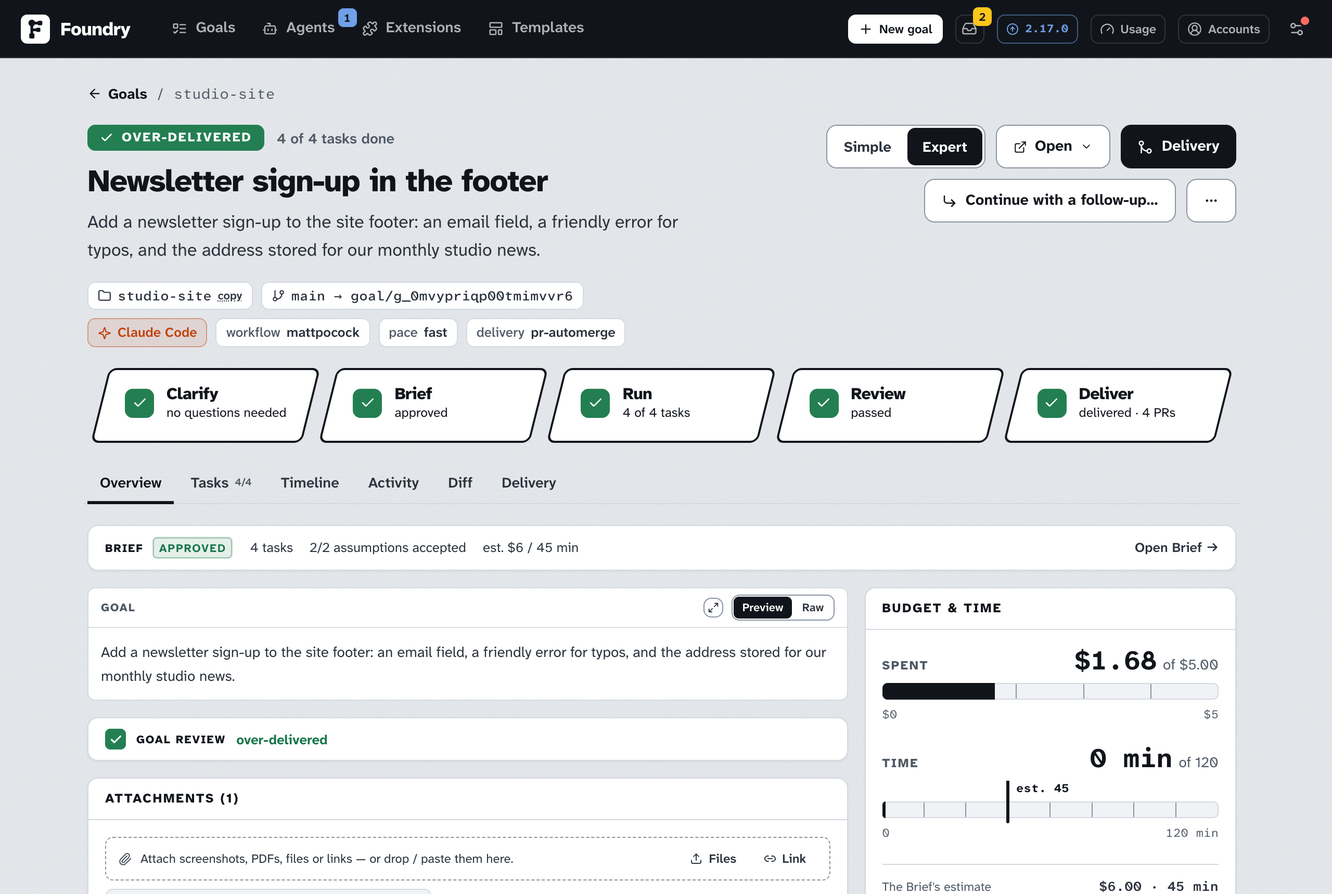
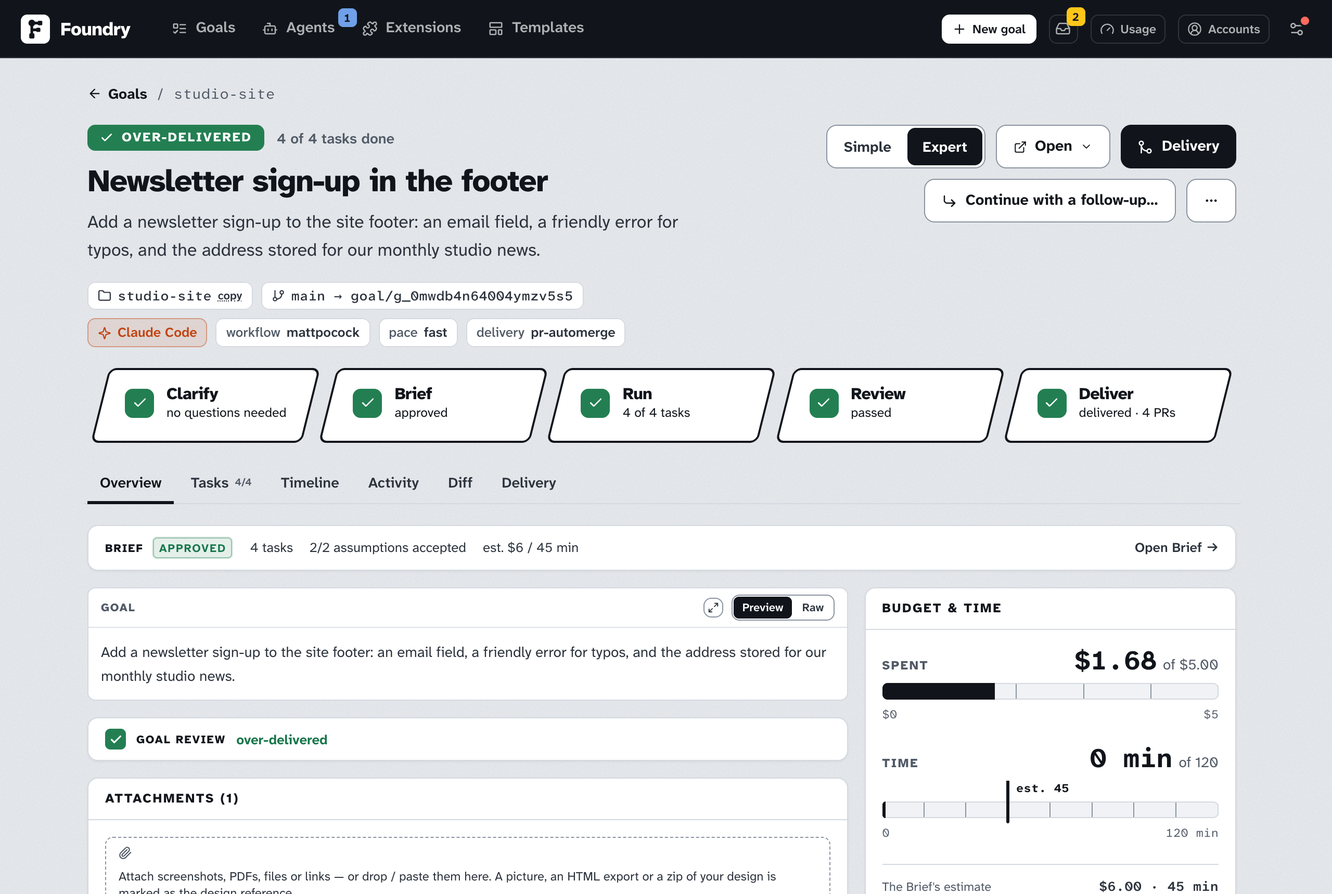
docs: Bringing your own design, ADR-0092 and the glossary's Design Reference
A guide page in English and 中文 on handing a goal the screens the person designed: attach files, never a link; the Design reference chip; what the Brief and the workers do with it; the Design pack per goal. The attachments, style cards and Design skills passages point to it, the guide's reading order and index list it, CONTEXT.md gains Design Reference, and the New goal form and goal overview screenshots are re-captured for the new hint.

Changed region(s): [[0.0938, 0.9552, 0.5938, 1.0], [0.625, 0.0, 0.8125, 0.0616], [0.3125, 0.3081, 0.4062, 0.339]]

diff --git a/packages/server/src/guide.ts b/packages/server/src/guide.ts
@@ -2,7 +2,7 @@ import { existsSync, readFileSync, readdirSync } from 'node:fs';
 import { join } from 'node:path';
 
 /** The user guide, in reading order. Pages not listed here are appended alphabetically. */
-export const GUIDE_ORDER = ['index', 'your-first-goal', 'answering-the-interview', 'approving-the-brief', 'while-it-runs', 'when-foundry-needs-you', 'getting-the-result', 'figures', 'diagrams', 'decks', 'learnings', 'memory', 'hyperframes', 'motion-studio', 'editor', 'schedules', 'settings', 'themes', 'costs-and-usage', 'moving-to-a-new-computer', 'ports', 'faq'];
+export const GUIDE_ORDER = ['index', 'your-first-goal', 'answering-the-interview', 'approving-the-brief', 'bringing-your-own-design', 'while-it-runs', 'when-foundry-needs-you', 'getting-the-result', 'figures', 'diagrams', 'decks', 'learnings', 'memory', 'hyperframes', 'motion-studio', 'editor', 'schedules', 'settings', 'themes', 'costs-and-usage', 'moving-to-a-new-computer', 'ports', 'faq'];
 
 /** The first page is README.md so GitHub shows it when docs/guide/ is opened; the app calls it "index". */
 export const guideFile = (slug: string) => (slug === 'index' ? 'README' : slug);

diff --git a/docs/guide/settings.zh.md b/docs/guide/settings.zh.md
@@ -199,7 +199,7 @@ skill 是所选编码智能体可以遵循的打包指令。在这里选择 Foun
 - **Setting sources**（仅 Claude）：会话加载哪些 Claude Code 设置。留空。
 - **autoskills per goal**（开）：你批准 Brief 后，把匹配你项目技术栈（React、Tailwind……）的 skill 加到 goal 的文件夹里。它们不会进入你的提交。
 - **MCP tools that run or change things**（关）：让会话使用已允许的 MCP server 里会运行或改动东西的工具。对 REA 来说：启动目标程序、挂调试器、操作连接的 Android 设备。关着时会话只能做静态分析。
-- **Design skills**、**Image skills**、**Video skills**（以及打开 [Figure goals、Diagram goals 或 Deck goals](#beta) 后的 **Figure skills**、**Diagram skills** 或 **Deck skills**）：每类选一个包；只有这个包会交给前端、图片、视频、figure、diagram 或 deck 任务。Figure 包的两个技能随 Foundry 附带，安装就是复制、不用下载，而且一个 goal 可以在 New goal 表单上选另一种已安装的风格；见 [Figure goal](./figures.zh.md)。Diagram 包的技能从它的仓库克隆一个固定版本；见 [Diagram goal](./diagrams.zh.md)。Deck 包的技能克隆一个固定发布版，并在数据文件夹下用 uv 得到一个专属的 Python 环境；见 [Deck goal](./decks.zh.md)。每个包显示 **installed** 或 **N missing**，并带一个 **Install** 按钮。选包会立即保存。图片包只有在 [Tools & keys](#tools--keys) 里有 key 时，才能生成真正的图片。已安装的技能缺少它需要的 key 时，它的卡片上会显示 **⚠ key missing**，写明是哪个 key、缺了它会少什么；点它就会跳到 **Tools & keys**。
+- **Design skills**、**Image skills**、**Video skills**（以及打开 [Figure goals、Diagram goals 或 Deck goals](#beta) 后的 **Figure skills**、**Diagram skills** 或 **Deck skills**）：每类选一个包；只有这个包会交给前端、图片、视频、figure、diagram 或 deck 任务。Figure 包的两个技能随 Foundry 附带，安装就是复制、不用下载，而且一个 goal 可以在 New goal 表单上选另一种已安装的风格；见 [Figure goal](./figures.zh.md)。Diagram 包的技能从它的仓库克隆一个固定版本；见 [Diagram goal](./diagrams.zh.md)。Deck 包的技能克隆一个固定发布版，并在数据文件夹下用 uv 得到一个专属的 Python 环境；见 [Deck goal](./decks.zh.md)。每个包显示 **installed** 或 **N missing**，并带一个 **Install** 按钮。选包会立即保存。代码 goal 可以在 New goal 表单上（**Design skills**）或用 `--design-pack` 另选一个设计包；附了设计参考时，包只补设计稿没定的部分（见[带上你自己的设计稿](./bringing-your-own-design.zh.md)）。图片包只有在 [Tools & keys](#tools--keys) 里有 key 时，才能生成真正的图片。已安装的技能缺少它需要的 key 时，它的卡片上会显示 **⚠ key missing**，写明是哪个 key、缺了它会少什么；点它就会跳到 **Tools & keys**。
 - **Memory**——记住每个文件夹的 goal 做过什么、学到什么的 Hindsight 服务器——不在这里设置，而是在 Extensions 页面的 MCP servers 标签页（这张卡片上有链接过去）；每个文件夹的开关在 Learnings 页面上。见 [Memory](./memory.zh.md)。
 
 顶栏上的 **Extensions** 页面放着 skill、MCP server 和原生 Codex 插件。页面上的分组一开始都是收起的，所以整页是一张短清单：点分组名称就能展开。搜索或筛选时，有匹配结果的分组会自动展开；收起的分组如果里面有来源可以更新，标题旁会注明。下述技能更新状态及整包卸载细节适用于 Claude。Codex 的 **Skills** 清单显示原生及共享技能，以及 Codex 已启用的每个插件里的技能，按插件分组（这些由 Codex 自己更新和移除，行上会说明怎么做）。在 Foundry 之外安装的技能，下次打开页面就会出现。插件包本身另在 **Plugins** 显示。以插件形式提供的设计或图像技能包，只要 Codex 装了那个插件就算已安装。共享技能（在 `~/.agents/skills`，其他智能体也会读取）可以在这里卸载，包括手动安装的；卸载后进入回收站，恢复时回到原来的文件夹。如果 Claude Code 也通过它自己技能目录里的链接使用某个共享技能，就不能在这里卸载：请先在 **Claude Code** 那边卸载，免得 Claude Code 留下一个失效的链接。每个技能都有一个状态：**outdated**（有新版本 —— 按 **Update**）、**unreleased**（插件作者在上游改了它，但没有提高版本号，所以 CLI 暂时没有新东西可装）、**modified**（你的副本被改过）或 **up to date**（只有 README 或 changelog 不同不算）。像 ffmpeg 这样的命令行工具，只要找得到它的命令就算已安装。插件的技能只能一起删除，用 **Uninstall plugin**。你手动安装的副本，如果 Foundry 自己能安装这个技能，就会出现 **Adopt**：用一个由 Foundry 负责更新的副本替换它。本身是链接、或者 `SKILL.md` 是链接、指向别的文件夹的技能文件夹（别的工具装的，或你自己的 clone），会列在 **Linked from another folder** 下，交给它链接到的地方管：不会出现 **Adopt**，不会被当成同名插件技能的过期副本，安装整个 bundle 时也会保留它。你在那里发起的每次安装、更新、接管（adopt）或卸载，都会在页面底部的 **Operations** 栏里打开一个标签页，带着它自己的日志；几个操作可以同时进行。完成的标签页会一直留着，直到你关掉它；这个栏也可以收起成一行计数。右边的 **Catalog** 在你滚动列表时一直留在视野里；点某个技能的名字会弹出它的详情窗口：为什么在目录里、在这台电脑上的状态、来自哪里，以及哪些角色按什么规则使用它。**Install required**、**+ recommended** 和 **+ optional** 会把到那一级为止还没装的全部装上；某一级还有没装的技能时，它的标题上会出现 **Install N**，只装那一级。已经装好的不会动。

diff --git a/docs/guide/settings.md b/docs/guide/settings.md
@@ -199,7 +199,7 @@ Skills are packaged instructions the coding agent can follow. **Coding agent** s
 - **Setting sources** (Claude only): which Claude Code settings sessions load. Leave empty.
 - **autoskills per goal** (on): after you approve a Brief, adds skills matching your project's technology (React, Tailwind…) to the goal's folder. They never reach your commits.
 - **MCP tools that run or change things** (off): lets sessions use the tools of allowed MCP servers that run or change things. For REA: launching the target app, attaching a debugger, touching a connected Android device. Off, sessions get static analysis only.
-- **Design skills**, **Image skills**, **Video skills** (and **Figure skills**, **Diagram skills** or **Deck skills** while [Figure goals, Diagram goals or Deck goals](#beta) are on): pick one pack for each; only that pack is given to frontend, image, video, figure, diagram or deck tasks. The Figure pack's two skills are bundled with Foundry, so installing copies them without a download, and a goal may pick the other installed style on the New goal form; see [Figure goals](./figures.md). The Diagram pack's skill is cloned from its repository at one fixed version; see [Diagram goals](./diagrams.md). The Deck pack's skill is cloned at one fixed release and gets a Python environment of its own, made with uv under the data folder; see [Deck goals](./decks.md). A pack shows **installed** or **N missing** with an **Install** button. Choosing a pack saves immediately. Image packs only produce real images with a key under [Tools & keys](#tools--keys). When an installed skill lacks the key it needs, its card shows **⚠ key missing** with the key's name and what is lost without it; click it to go to **Tools & keys**.
+- **Design skills**, **Image skills**, **Video skills** (and **Figure skills**, **Diagram skills** or **Deck skills** while [Figure goals, Diagram goals or Deck goals](#beta) are on): pick one pack for each; only that pack is given to frontend, image, video, figure, diagram or deck tasks. The Figure pack's two skills are bundled with Foundry, so installing copies them without a download, and a goal may pick the other installed style on the New goal form; see [Figure goals](./figures.md). The Diagram pack's skill is cloned from its repository at one fixed version; see [Diagram goals](./diagrams.md). The Deck pack's skill is cloned at one fixed release and gets a Python environment of its own, made with uv under the data folder; see [Deck goals](./decks.md). A pack shows **installed** or **N missing** with an **Install** button. Choosing a pack saves immediately. A code goal may pick another Design pack on the New goal form (**Design skills**) or with `--design-pack`; with a design reference attached, the pack only fills what the design leaves open (see [Bringing your own design](./bringing-your-own-design.md)). Image packs only produce real images with a key under [Tools & keys](#tools--keys). When an installed skill lacks the key it needs, its card shows **⚠ key missing** with the key's name and what is lost without it; click it to go to **Tools & keys**.
 - **Memory** — a Hindsight server that remembers what each folder's goals did and taught — is not set up here but on the Extensions page, MCP servers tab (the card links there); each folder's switch is on the Learnings page. See [Memory](./memory.md).
 
 The **Extensions** page in the top bar holds your skills, MCP servers and native Codex plugins. Every group on it starts closed, so the page is a short list: click a group's name to open it. A search or a filter opens every group with a match, and a closed group's heading says when a source in it has an update. The following skill update and plugin-bundle details describe Claude. For Codex, **Skills** lists native and shared skills, and the skills inside each plugin Codex has switched on, grouped by plugin (Codex updates and removes those itself; the row says how). A skill installed outside Foundry shows up the next time the page loads. **Plugins** lists the native packages themselves. A design or image pack that comes as a plugin counts as installed when Codex has that plugin. Shared skills (in `~/.agents/skills`, which other agents read too) can be uninstalled there, including hand-installed ones; they go to the trash and can be restored to the same folder. One that Claude Code also uses through a link in its own skills folder cannot: uninstall it on the **Claude Code** side first, so Claude Code is not left with a broken link. Each skill has a state: **outdated** (a newer version is out — press **Update**), **unreleased** (a plugin's author changed it upstream without raising the version number, so the CLI has nothing new to install yet), **modified** (your copy was edited) or **up to date** (a difference in a README or changelog alone does not count). A command-line tool such as ffmpeg counts as installed as soon as its command is found. A plugin's skills can only be removed together, with **Uninstall plugin**. A copy you installed by hand offers **Adopt** when Foundry can install that skill itself: the copy is replaced by one Foundry keeps up to date. A folder that is a link, or whose `SKILL.md` is a link, into another folder (another tool's install, your own clone) is listed under **Linked from another folder** and left to where it links: no **Adopt**, never a stale copy of a plugin skill that shares its name, and installing a bundle keeps it. Every install, update, adoption or uninstall you start there opens a tab in the **Operations** bar at the bottom of the page, with its own log; several can run side by side. A finished tab stays until you close it, and the bar folds down to a line with counts. On the right, the **Catalog** stays in view while you scroll the list; click a skill's name there to open its details in a window: why it is in the catalog, how it stands on this computer, where it comes from, and which roles follow it under which rules. **Install required**, **+ recommended** and **+ optional** install everything still missing up to that tier, and a tier with missing skills shows **Install N** in its heading for that tier alone; what is already installed is left as it is.

diff --git a/docs/develop/adr/0092-the-design-the-person-attaches-is-what-the-result-follows.md b/docs/develop/adr/0092-the-design-the-person-attaches-is-what-the-result-follows.md
@@ -1,0 +1,66 @@
+# ADR-0092: The design the person attaches is what the result follows
+
+**Status:** accepted · 2026-11-12 · builds on [ADR-0005](0005-scenario-skills-and-settings.md) and [ADR-0076](0076-figure-goals-from-a-bundled-figure-pack.md)
+
+## Context
+
+A person designed their screens in Claude Design, pasted the share link into a goal's description, and got a result
+two days later that was "not as perfect as expected, mostly the UX". The link was the whole design input. Foundry's
+sessions cannot open a claude.ai page (it needs a sign-in and draws itself in the browser), so no role ever saw the
+design. The Clarifier did what it does for every UI goal: it invented two to four style directions and asked the
+person to pick one; the Design pack then told the worker to "choose a deliberate aesthetic direction". Both filled the
+vacuum the missing design left. The result was the agents' design, not the person's.
+
+What the code did with an attached design, when one was attached, was not much better:
+
+- An attachment is a path in a markdown section of each role's prompt, listed after the chosen style direction. A
+  mockup weighs the same as a reference PDF; nothing says it is the design, and nothing says the design beats the
+  style cards or the pack's instruction to pick a direction.
+- A zip (what design tools export) was never unpacked.
+- The Clarifier proposed invented style cards whether or not a design was attached, and the person had to pick one.
+- The Design pack is one global Settings value; a goal could not choose another.
+
+The person's own design is the most precise brief a UI goal can get. Treating it as one reference among others, and
+letting a skill re-choose the direction, wastes it.
+
+## Decision
+
+1. **A design reference is a marked attachment.** An attachment carries `design: true` when it is the design the
+   result follows. The New goal form and the goal page mark a picture, an HTML page or a zip as the design reference
+   when it is attached (the person unticks the chip to keep it an ordinary reference), and `POST
+   /api/goals/:id/attachments/:attId/mark` changes the mark later. A link is never the design.
+2. **A zip is unpacked when it is staged.** Its files land in a folder beside it (junk, escaping entries and anything
+   past 2000 files or 300 MB are skipped), the folder moves with the attachment, and the record names the page to open
+   first. Sessions read the files by path, as they read every attachment.
+3. **The design is the law.** Every prompt that renders attachments renders the design references first, under their
+   own heading, with the rule: what the design shows is made as it shows it; where the design and a style direction
+   or a design skill disagree, the design wins; the skill is for what the design leaves open, done in the design's own
+   language; an HTML reference is source material to port, never a file to commit. The worker prompt places that
+   section right after the task, before the style direction, and the style direction says it was read from the design.
+4. **Clarify reads the design instead of inventing a direction.** With a design attached, the Clarifier outputs one
+   style card read from it ("From your design"), already picked, never a choice among invented ones; writes a design
+   inventory (pages, components, states, copy) into its planning notes; adds a goal-level reviewer check "Matches the
+   design: <page>" per page the design shows; and records what the design does not show (empty, loading and error
+   states, a phone width) as assumptions the person can change. The planner gives each page a task that names its
+   design file and a task-level check against it. Should the Clarifier still return several cards, the engine keeps the
+   one marked chosen, else the first.
+5. **A link into a design tool behind a sign-in is refused as a design.** claude.ai, figma.com, canva.com and framer.com
+   links are named by their tool: the New goal form warns as the link or description is typed, the prompt tells the
+   sessions to treat such a link as a design that was not supplied, and the Brief gets an engine-generated blocking
+   question asking for an export (or to go without) whenever such a link is present and no design is attached.
+6. **A goal may pick its Design pack.** `designPack` on the goal (the New goal form's **Design skills**, the CLI's
+   `--design-pack`) lays over Settings' pack the way the Figure and video packs do (ADR-0076, ADR-0077). It is not the
+   fix for the feedback above; it is the cheap thing people asked for, and with a design attached the pack only fills
+   what the design leaves open.
+
+## Consequences
+
+- A goal with a design attached asks the person nothing about its look. The Brief shows one card and the inventory's
+  gaps as assumptions; the person edits those instead of choosing between directions nobody asked for.
+- Every role that builds or judges a look is told the same precedence in the same words, from one function.
+- Older goals and events are unchanged: the mark and the unpacked folder are optional fields, read as absent.
+- The engine depends on `fflate` (MIT) to read zips: Bun's archive reader takes tar only, and the Docker image has no
+  `unzip`.
+- The comparison of the built screens against the design (screenshots for the task reviewer and the goal reviewer,
+  the design carried into Adjust and Revise) is a decision of its own and a later ADR; this one makes the design reach
+  the sessions and bind the plan.

diff --git a/docs/guide/bringing-your-own-design.md b/docs/guide/bringing-your-own-design.md
@@ -1,0 +1,33 @@
+# Bringing your own design
+
+You already designed the screens, in Claude Design, Figma or by hand, and you want the result to look like them, not like something the agents imagined. This page says how to hand that design to a goal, and what Foundry does with it.
+
+## Attach the files, never a link
+
+A link to a Claude, Figma, Canva or Framer page does not work as a design. Those pages need a sign-in, so the sessions that build your goal cannot open them, and a goal that only has such a link gets the agents' own design instead. The New goal form says so as soon as the description or a link attachment points to one of those tools, and a Brief written from such a goal asks you, as a blocking question, to attach an export or to go without.
+
+Export the design from the tool instead: an HTML file or a zip (what Claude Design and Figma give you), or screenshots of every screen. Attach the files under the description, with **Files** or by dropping or pasting them. A zip is unpacked when it arrives, so the sessions read every file in it.
+
+## The design reference
+
+A picture, an HTML page or a zip is marked **Design reference** when you attach it to a code goal (a goal of another kind keeps its pictures as references or Subjects; click the chip to mark one anyway). The chip on the attachment says so; click it to make the file an ordinary reference again, and click it again to make it the design. Documents and links cannot be the design. You can attach a design later from the goal page, then press **Re-run Clarify** on the Brief page so the Brief is written from it.
+
+A design reference is the law for the goal: what it shows is built as it shows it, pages, sections, layout, copy, colours, type, components and the states it draws. An HTML export is read as source material, so the sessions port its markup, styles and tokens into your project instead of guessing them from a picture.
+
+## What the Brief does with it
+
+With a design attached, the Clarifier does not propose style directions for you to pick from. The Brief shows one card, **From your design**, already picked: the colours and typefaces the Clarifier read from your files. The design itself, not the card, is what the workers follow.
+
+The Clarifier opens every design file, writes an inventory of it (each page, its sections and components, the states it shows, the copy) into its notes for the planner, and gives every page the design shows a goal-level check named **Matches the design: &lt;page&gt;**, judged by the goal reviewer. What your design does not show but the work needs, an empty list, a loading or error state, a phone width, is listed as an assumption saying how it will be done in your design's language; change any of them on the Brief page. The planner gives each page its own task, naming the design file it follows, with a check against it.
+
+## What the workers do with it
+
+Every worker on a page sees the design reference right after its task, before any style direction, with the rule that the design wins wherever a style direction or a design skill would say otherwise. The design skill of the goal (see [Settings explained](./settings.md#skills)) is still there, for what the design leaves open: states it does not show, how the page behaves on a phone, accessibility, motion. It fills those gaps in your design's language; it never re-chooses the direction.
+
+## Design skills per goal
+
+The design skill set a goal's UI tasks follow comes from Settings → Skills → **Design skills**. A code goal may pick another on the New goal form, under the kind of goal: **Design skills** lists the packs, with Settings' pack first and the ones not installed for your coding agent marked. From the command line, `foundry goal new … --design-pack bencium` does the same. With a design attached, the pack only fills what the design leaves open, whichever you pick.
+
+## If the result still differs
+
+Look at the result against your design page by page. Where it differs, use **Adjust the result** (beta, Settings → Beta) and name the page and the design file it should match, or **Revise** the Brief with a Decision. Both carry your words to the sessions, and the design reference stays attached to the goal for them to read.

diff --git a/docs/guide/bringing-your-own-design.zh.md b/docs/guide/bringing-your-own-design.zh.md
@@ -1,0 +1,33 @@
+# 带上你自己的设计稿
+
+你已经在 Claude Design、Figma 里或者亲手把界面设计好了，想让结果长成它的样子，而不是 agent 自己想象出来的样子。这一页讲怎样把设计稿交给一个 goal，以及 Foundry 会拿它做什么。
+
+## 附上文件，不要只给链接
+
+Claude、Figma、Canva 或 Framer 页面的链接当不了设计稿。那些页面要登录，给你的 goal 干活的会话打不开它们；一个只有这种链接的 goal，拿到的会是 agent 自己的设计。描述或链接附件一指向这些工具，New goal 表单就会说明这一点；从这样的 goal 写出来的 Brief 会用一个阻塞问题请你附上导出件，或者选择不用设计稿。
+
+改成从工具里导出：一个 HTML 文件或一个 zip（Claude Design 和 Figma 给的就是这个），或者每个页面的截图。在描述下面用 **Files** 附上，或者拖进来、粘贴进来。zip 一到就会解开，会话能读到里面的每个文件。
+
+## 设计参考
+
+图片、HTML 页面或 zip 附到代码 goal 上时会被标为 **Design reference**（其他类型的 goal 把图片当参考或 Subject；要标的话点一下小标签就行）。附件上的小标签就是它；点一下，文件就变回普通参考；再点一下，又成为设计稿。文档和链接不能当设计稿。你也可以之后在 goal 页面附上设计稿，然后在 Brief 页面按 **Re-run Clarify**，让 Brief 按它重写。
+
+设计参考对这个 goal 就是法律：它画了什么，就照着做什么——页面、区块、布局、文案、颜色、字体、组件，以及它画出来的状态。HTML 导出件会被当作源材料来读：会话把它的标记、样式和 token 移植进你的项目，而不是看着图猜。
+
+## Brief 会拿它做什么
+
+附了设计稿之后，Clarifier 不再提几个风格方向让你选。Brief 只显示一张卡片，**From your design**，已经选中：那是 Clarifier 从你的文件里读出来的颜色和字体。工人们遵循的是设计稿本身，不是这张卡片。
+
+Clarifier 会打开每个设计文件，把它的清单（每个页面、页面上的区块和组件、画出来的状态、文案）写进给 planner 的笔记，并为设计稿画出的每个页面加一条 goal 级别的检查，名为 **Matches the design: &lt;page&gt;**，由 goal reviewer 来判。设计稿没画、但工作需要的东西——空列表、加载中或出错的状态、手机宽度——会列成假设，写明会按你设计稿的语言怎么做；在 Brief 页面上随便改。planner 给每个页面一个自己的任务，写明它遵循的设计文件，并附一条对照它的检查。
+
+## 工人会拿它做什么
+
+每个做页面的工人都会在任务之后、任何风格方向之前看到设计参考，并附带规则：风格方向或设计技能与设计稿有出入时，设计稿说了算。goal 的设计技能（见[设置说明](./settings.zh.md#skills)）仍然在，用来补设计稿没定的部分：没画出来的状态、页面在手机上的表现、无障碍、动效。它用你设计稿的语言去补这些空缺，从不重新选方向。
+
+## 每个 goal 自己的设计技能
+
+一个 goal 的 UI 任务遵循哪套设计技能，来自 Settings → Skills → **Design skills**。代码 goal 可以在 New goal 表单上、goal 类型下面另选一套：**Design skills** 列出各个包，Settings 的包排在前面，没为你的编码 agent 安装的会标出来。命令行里 `foundry goal new … --design-pack bencium` 效果一样。附了设计稿之后，不管选哪个包，它都只补设计稿没定的部分。
+
+## 结果仍有出入时
+
+把结果和你的设计稿逐页对照。有出入的地方，用 **Adjust the result**（beta，Settings → Beta）说明是哪个页面、该对上哪个设计文件；或者用一条 Decision 来 **Revise** Brief。两者都会把你的话带给会话，设计参考也一直留在 goal 上供它们读。

diff --git a/docs/develop/adr/README.md b/docs/develop/adr/README.md
@@ -94,3 +94,4 @@ record is never rewritten when a later decision changes it; its status says what
 | [0088](0088-the-plan-an-account-is-on-is-named-as-its-coding-agent-names-it.md) | The plan an account is on is named as its coding agent names it: `planName` in core (the agent's own display name first, Claude Code's from `.claude.json` in the status' config dir and only for the same account, else the subscription type's key said as its maker names the plan, an unknown key in title case), every sign-in status carries `plan` beside the raw `subscriptionType`, and an added account's plan is what its sign-in last reported rather than what was stored when it was added | accepted · 2026-11-10 · amends ADR-0085, builds on ADR-0065 |
 | [0089](0089-a-launch-video-told-by-brag-under-the-hyperframes-harness.md) | A launch video of the repository itself is told by /brag and judged by the HyperFrames harness: the skill joins the `hyperframes` bundle at one release as a worker preference on video (never a must), its output folder is the harness's project folder `video/<slug>/` (the plan, brief and share copy beside the composition, the film as `final-<format>.mp4` with /brag's poster baked in as frame 0), /brag's inspect and plan replace the storyboard task while the critique rounds, loudness pass and verifier stand, the engine's Clarify and planner sections say so, and a `Launch video (/brag)` template starts such a goal | accepted · 2026-11-10 · builds on ADR-0087 and ADR-0049 |
 | [0090](0090-an-accounts-own-usage-windows-shown-per-account.md) | An account's own usage windows, read as its coding agent reports them and shown per account: Claude's from its own usage report (Session 5-hour, All models weekly, a week per model, Extra usage while on) read with the account's stored token that Claude Code alone renews (its `/usage` run once when the token has lapsed), Codex's from its quota, Antigravity's from agy, as bars with the percent used under one colour rule on the Accounts page rows and the Usage page's Accounts card, read on demand and kept a minute, informing the person and the length of a pause but never switching accounts early | accepted · 2026-11-12 · builds on ADR-0065 and ADR-0088 |
+| [0092](0092-the-design-the-person-attaches-is-what-the-result-follows.md) | The design the person attaches is what the result follows: an attachment marked as the design reference (a picture, an HTML export or a zip, unpacked when staged; never a link), rendered first in every prompt as the law over style directions and design skills and placed before the style direction for the worker, read by the Clarifier into one chosen card, a design inventory, a "Matches the design" check per page and assumptions for what it leaves open, with links into design tools behind a sign-in refused as a design and asked about as a blocking question, and a Design pack a goal may pick on the New goal form or with `--design-pack` | accepted · 2026-11-12 · builds on ADR-0005 and ADR-0076 |

diff --git a/CONTEXT.md b/CONTEXT.md
@@ -458,6 +458,9 @@ One visual direction for a media or UI Goal — palette, typefaces, keywords, a 
 **Style Sample**
 A single cheap real image generated on demand to taste a Style Proposal before approving the Brief. Samples are a history: regenerating appends a new one and every earlier sample stays — the human can change their mind and pin any of them as the reference image Workers must match. Samples live in the goal workspace's `artifacts/samples/` (git-excluded) and are copied into every Task worktree so the Worker can open the pinned one.
 
+**Design Reference**
+An attachment marked as the design the Goal's result follows: a picture, an HTML export or a zip of it (unpacked when it arrives), never a link. It is the law for every Role that builds or judges a look: what it shows is made as it shows it; where it and a Style Proposal or the Design Pack disagree, the design wins, and the pack only fills what the design leaves open, in the design's own language. With one attached the Clarifier reads one Style Proposal from it instead of inventing directions, writes a design inventory for the Planner, binds every page it shows to a "Matches the design" check, and records what it does not show as assumptions. A link into a design tool behind a sign-in (Claude, Figma, Canva, Framer) is not a design: the person is asked for an export.
+
 **Subject**
 A real thing a Goal's result depicts: a particular vehicle, building, landmark, product or artwork, never a person. Named on the Brief precisely enough to find pictures of exactly that one, with what must match (the proportions, the distinctive features, colours and materials). The Clarifier names them for goals with a look; the human adds, changes and removes them while the Brief waits. At most four per Brief. A Delegated Goal and a Follow-up start with the Subjects of the Goal they come from.
 

diff --git a/docs/guide/your-first-goal.md b/docs/guide/your-first-goal.md
@@ -188,6 +188,8 @@ Below the text box: **Attach screenshots, PDFs, files or links — or drop / pas
 
 Every session of the goal can read the attachments. A file may weigh up to 25 MB, an audio or video file (a reference film, a music track) up to 200 MB, and a goal holds up to 20 attachments. They are never added to your project. Documents are converted to text in the background; a small tag shows when that is done. You can add more attachments later from the goal page.
 
+**Design reference.** A picture, an HTML export or a zip of your design is marked **Design reference** when you attach it to a code goal: the goal builds what it shows, as it shows it. Click the chip to make it an ordinary reference. A link to a Claude, Figma, Canva or Framer page cannot be the design: those pages need a sign-in, so the sessions never see them; the form says so and asks for an export. See [Bringing your own design](./bringing-your-own-design.md).
+
 ### Reference
 
 **+ add a reference** names shipped software the goal should learn from: a website, an app on this computer (`/Applications/Notes.app`), a package or an extracted app, and which feature to look at. Before Clarify, REA, a reverse-engineering server you install once from **Extensions → MCP servers**, studies each reference and writes a report with its evidence: how the feature works, what could not be verified, what to build. Every session of the goal reads the report, it is committed as `docs/reference/<name>.md` on the goal branch, and the Brief page shows it with **Investigate again**. Up to five references; the investigation has a cost and time cap in Settings.

diff --git a/docs/guide/your-first-goal.zh.md b/docs/guide/your-first-goal.zh.md
@@ -190,6 +190,8 @@ docs、infra、research、image 和 video 类任务从来不加 TDD 规则；单
 
 这个 goal 的每个会话都能读到这些附件。一个文件最大 25 MB，音频或视频文件（参考影片、音乐）最大 200 MB，一个 goal 最多 20 个附件。它们永远不会被加进你的项目。文档会在后台转成文本，转好后会显示一个小标签。之后你还可以在 goal 页面上继续添加附件。
 
+**Design reference.** 图片、HTML 导出件或设计稿的 zip 附到代码 goal 上时会被标为 **Design reference**：goal 会照着它画的做。点那个小标签，它就变回普通参考。Claude、Figma、Canva 或 Framer 页面的链接当不了设计稿：那些页面要登录，会话永远看不到；表单会说明这一点并请你导出。见[带上你自己的设计稿](./bringing-your-own-design.zh.md)。
+
 ### Reference
 
 **+ add a reference** 填入这个 goal 要学习的已发布软件：一个网站、这台电脑上的一个应用（`/Applications/Notes.app`）、一个安装包或解包后的应用，以及要看哪个功能。Clarify 之前，REA（一个逆向工程 server，在 **Extensions → MCP servers** 装一次）会调查每个参考对象，写出带证据的报告：功能怎么实现、哪些没能核实、该做什么。goal 的每个会话都读得到这份报告，它还会以 `docs/reference/<name>.md` 提交到 goal 分支上，Brief 页面会显示它，并带 **Investigate again**。最多五个参考对象；调查的花费和时间上限在 Settings 里。

diff --git a/docs/guide/README.md b/docs/guide/README.md
@@ -66,5 +66,6 @@ The full glossary, for the curious, is `CONTEXT.md` in the Foundry repository.
 18. [Moving to a new computer](./moving-to-a-new-computer.md): carrying settings, keys and goals to another Foundry.
 19. [Ports](./ports.md): which ports are in use, who holds them, and freeing one.
 20. [FAQ](./faq.md): short answers to common questions.
+21. [Bringing your own design](./bringing-your-own-design.md): handing a goal the screens you designed, and what the Brief and the workers do with them.
 
 **Help** in the ⚙ menu at the right of the top bar shows this guide inside Foundry. The same menu holds **Settings**, **Setup**, **Transfer**, **Ports**, **Learnings**, **Schedules**, the light or dark mode, **Appearance** (the theme; see [Themes](./themes.md)), and the version you run: a red dot on the ⚙ button marks a newer one, and pressing the version opens **About & updates**.

diff --git a/docs/guide/README.zh.md b/docs/guide/README.zh.md
@@ -66,5 +66,6 @@ Foundry 读你的项目，问你只有你能决定的事，然后写一份叫 **
 18. [搬到新电脑](./moving-to-a-new-computer.zh.md)：把设置、key 和 goal 带到另一个 Foundry。
 19. [端口](./ports.zh.md)：哪些端口正在被使用、被谁占着，以及怎样释放。
 20. [常见问题](./faq.zh.md)：常见问题的简短回答。
+21. [带上你自己的设计稿](./bringing-your-own-design.zh.md)：把你设计好的界面交给 goal，以及 Brief 和工人会拿它做什么。
 
 顶栏右侧 ⚙ 菜单里的 **Help** 在 Foundry 里面直接显示本指南。同一个菜单里还有 **Settings**、**Setup**、**Transfer**、**Ports**、浅色／深色模式、**Appearance**（主题，见 [主题](./themes.zh.md)），以及你运行的版本：⚙ 按钮上的红点表示有新版本，按版本号会打开 **About & updates**。
